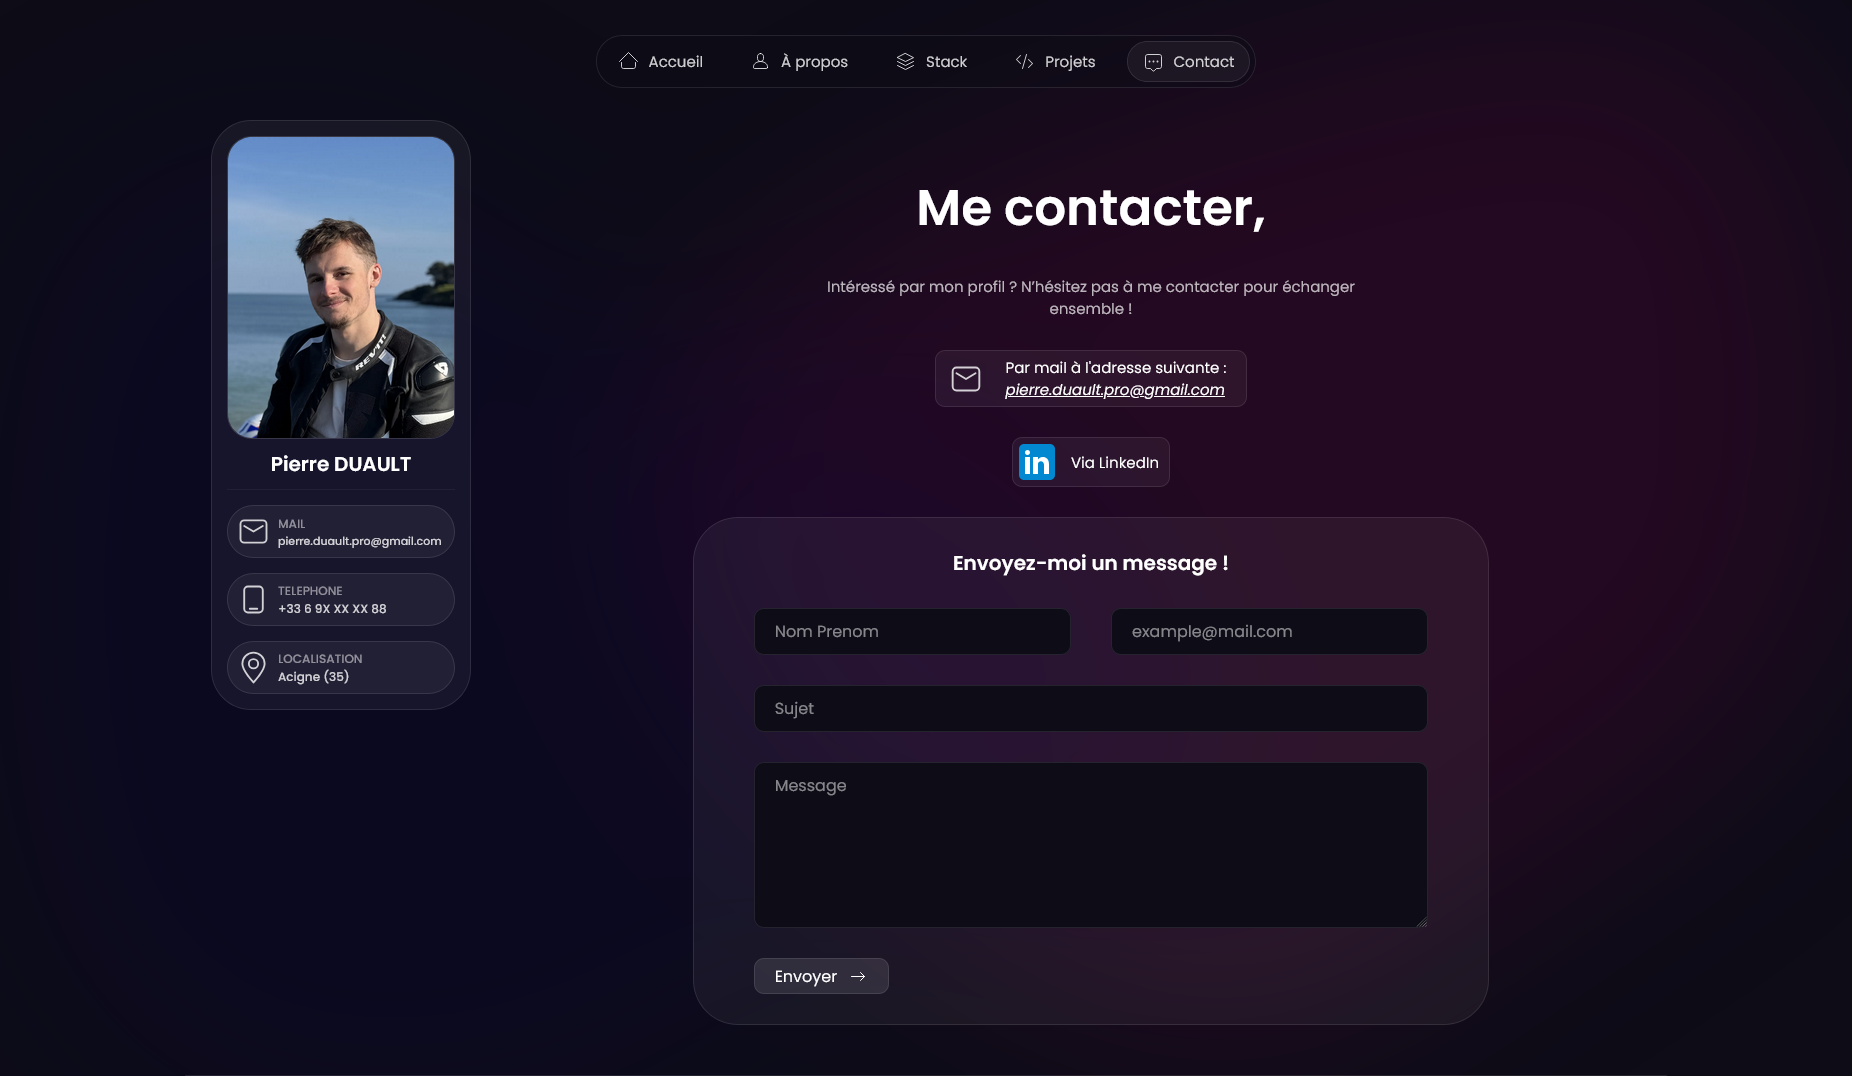
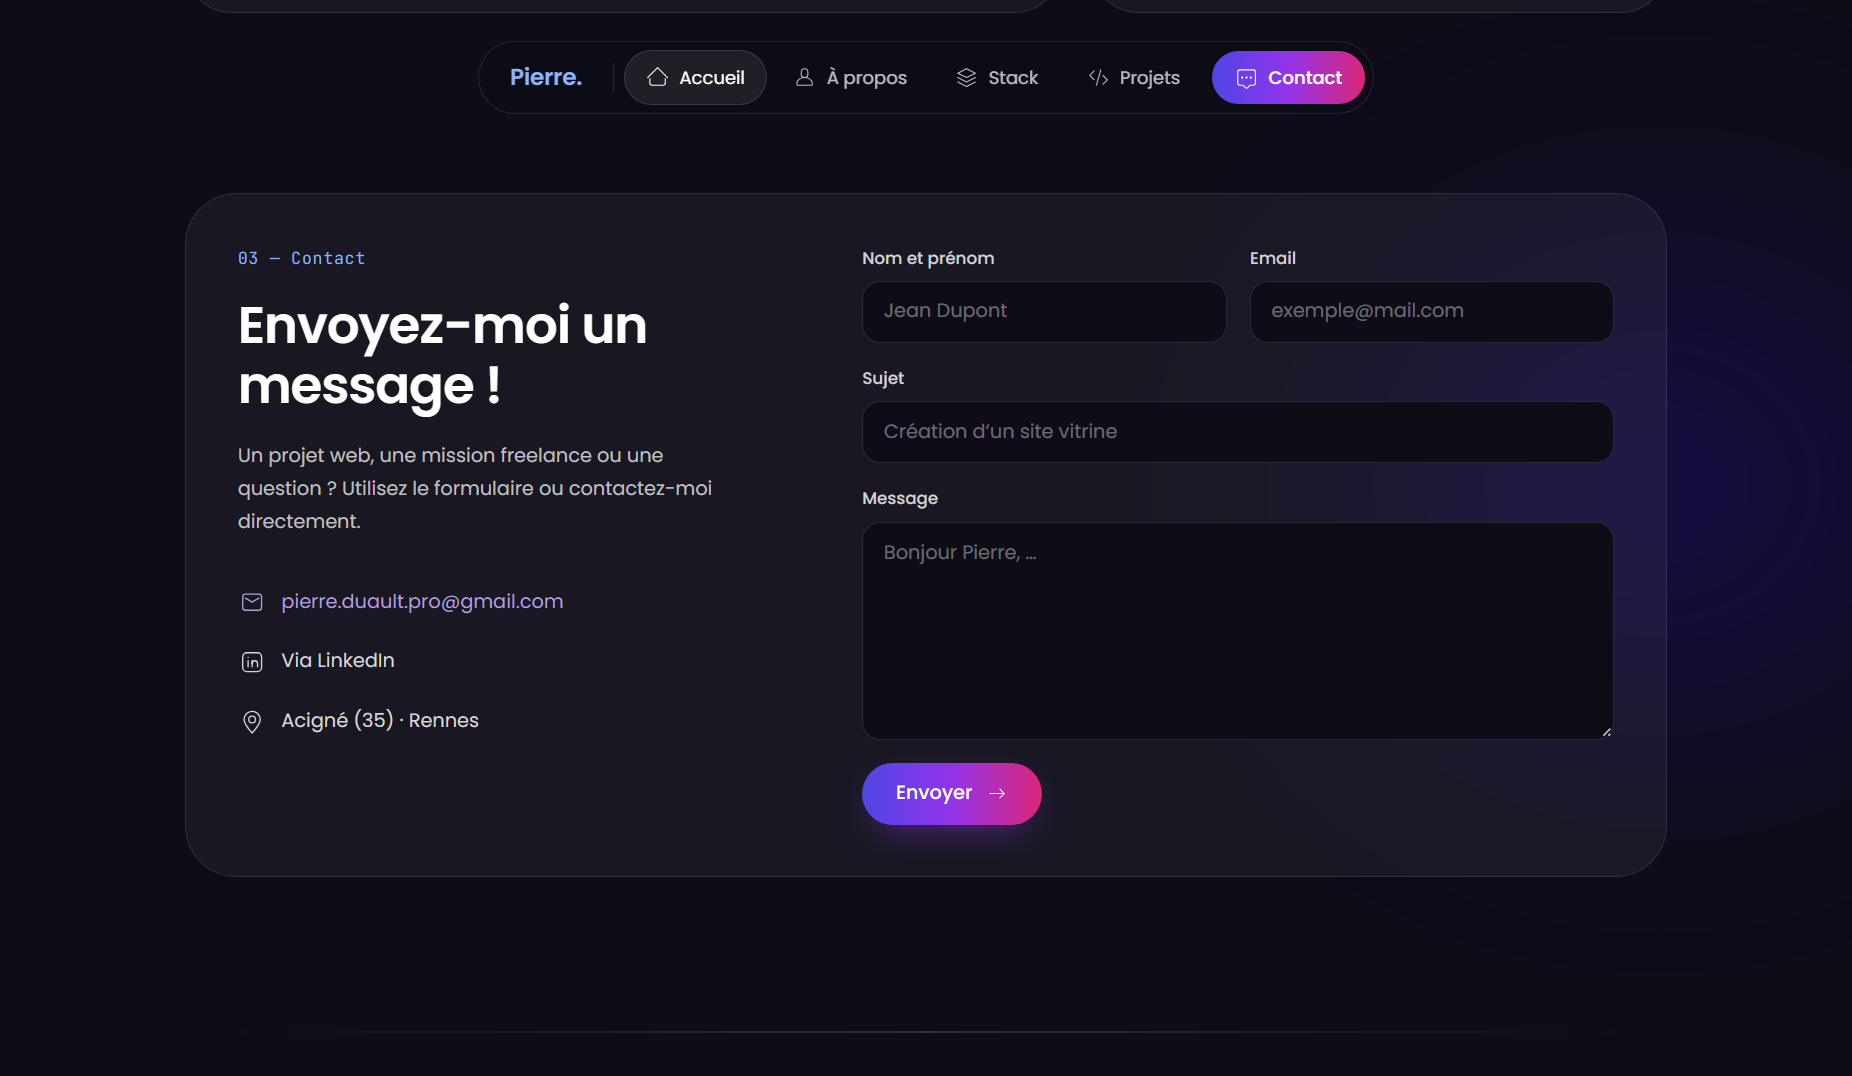
docs(readme): v2 screenshots and up-to-date project overview
Regenerates the five screenshots (same 1852x1076 size) from the v2 pages,
shows About and Contact in the overview, and updates the outdated parts:
contact is now a home section, Astro 7, legal pages and tailwind config
location in the project tree.

Refs #27

diff --git a/README.md b/README.md
@@ -1,7 +1,7 @@
 # Pierre Duault — Portfolio
 
 [![Site en ligne](https://img.shields.io/badge/Site-pierre--duault.fr-0ea5e9?style=flat-square&logo=astro&logoColor=white)](https://pierre-duault.fr)
-[![Astro](https://img.shields.io/badge/Astro-6.x-BC52EE?style=flat-square&logo=astro)](https://astro.build)
+[![Astro](https://img.shields.io/badge/Astro-7.x-BC52EE?style=flat-square&logo=astro)](https://astro.build)
 [![Tailwind CSS](https://img.shields.io/badge/Tailwind_CSS-4.x-06B6D4?style=flat-square&logo=tailwindcss)](https://tailwindcss.com)
 
 > Portfolio personnel de **Pierre Duault**, développeur web full stack & administrateur systèmes, basé à Rennes.
@@ -21,15 +21,21 @@
 ### Stack
 ![Stack](.github/screenshots/stack.png)
 
+### A propos
+![A propos](.github/screenshots/about.png)
+
+### Contact
+![Contact](.github/screenshots/contact.png)
+
 ---
 
 ## Fonctionnalites
 
-- **Page d'accueil** — Presentation, carte de profil, projet mis en avant et formulaire de contact rapide
+- **Page d'accueil** — Presentation, carte de profil, projet mis en avant, apercu de la stack et section contact
 - **Projets** — Galerie de projets personnels et professionnels avec fiches detaillees
-- **Stack** — Inventaire complet des technologies, outils et environnements maitrises
-- **A propos** — Parcours, experiences professionnelles et formations
-- **Contact** — Formulaire de contact fonctionnel
+- **Stack** — Inventaire complet des technologies, outils et environnements maitrises, avec filtres par categorie
+- **A propos** — Valeurs, chiffres cles, experiences professionnelles en timeline repliable et formations
+- **Contact** — Section de l'accueil (`/#contact`) : formulaire Formspree avec confirmation dans la page ; l'ancienne URL `/contact` y redirige
 - **Pages legales** — Mentions legales, politique de confidentialite et CGU
 - **SEO optimise** — Meta tags, Open Graph, Twitter Cards, sitemap
 - **Design responsive** — Interface adaptee mobile, tablette et desktop (Tailwind CSS)
@@ -40,7 +46,7 @@
 
 | Categorie | Technologie |
 |-----------|-------------|
-| Framework | [Astro](https://astro.build) v6 |
+| Framework | [Astro](https://astro.build) v7 |
 | Styling | [Tailwind CSS](https://tailwindcss.com) v4 |
 | Langage | TypeScript |
 | Deploiement | [Vercel](https://vercel.com) |
@@ -69,12 +75,11 @@
 │   │   ├── projects.astro
 │   │   ├── stack.astro
 │   │   ├── about.astro
-│   │   ├── contact.astro
-│   │   └── legal*.astro
+│   │   └── legal, privacy, terms.astro  # Pages legales
 │   └── styles/
-│       └── global.css
-├── astro.config.mjs
-├── tailwind.config.js
+│       ├── global.css
+│       └── tailwind.config.js
+├── astro.config.mjs      # Config Astro (sitemap, redirection /contact)
 └── package.json
 ```
 
